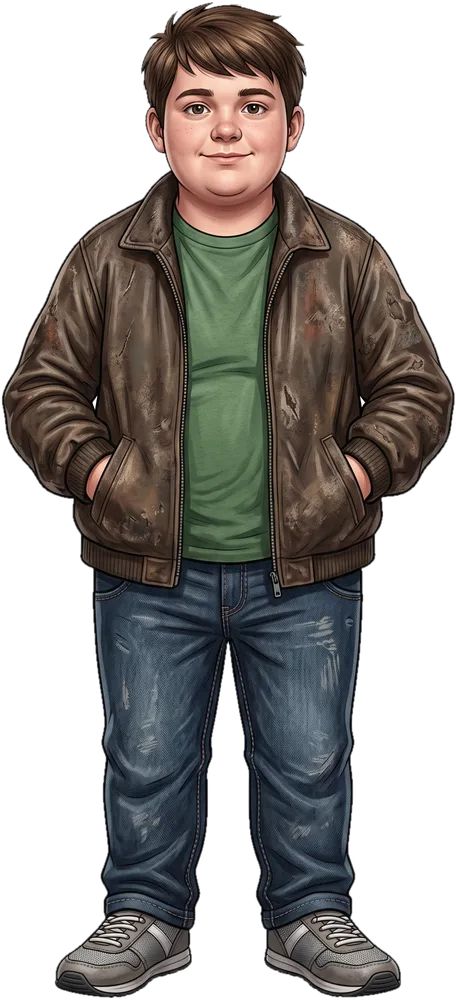
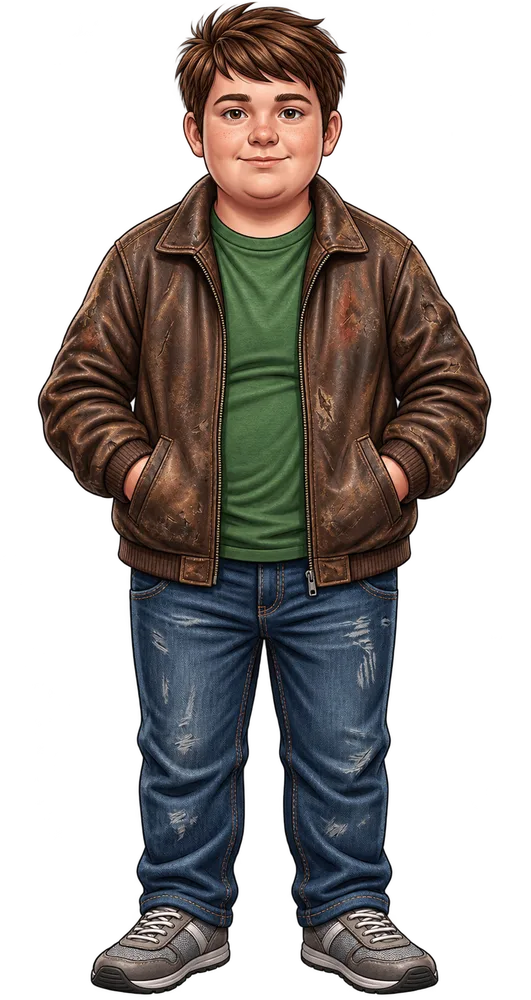
feat(landing): новая фигура Ромки в полный рост

diff --git a/tools/make_fullbody.py b/tools/make_fullbody.py
@@ -26,7 +26,7 @@ SRC = {
     'pasha':     'Паша/Охранник с немецкой овчаркой.png',
     'rayda':     'Паша/Райда в полный рост-Photoroom.png',
     'vorontsov': 'Воронцов/Gemini_Generated_Image_m56hdym56hdym56h-Photoroom.png',
-    'romka':     'Ребята с велопрогулки/Detailed_character_development_f…_2K_202609050135.jpeg',
+    'romka':     'Ребята с велопрогулки/Персонаж в кожаной куртке, полный рост.png',
 }
 OUT = os.path.join(D, 'images/heroes/full'); os.makedirs(OUT, exist_ok=True)
 
